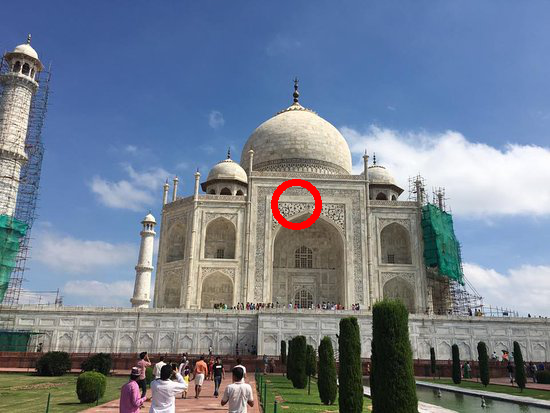
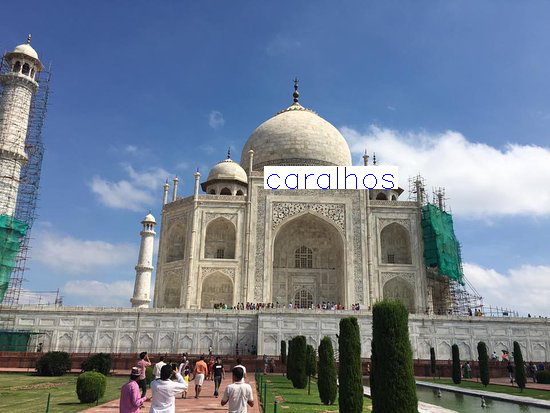
Augmenting text now working

Changed region(s): [[0.4636, 0.3777, 0.7418, 0.5811]]

diff --git a/Preparation.py b/Preparation.py
@@ -90,13 +90,14 @@ def draw_circle(event, x, y, flags, param):
                             cv2.FONT_HERSHEY_SIMPLEX, font_size,
                             255, 1)
 
-                subsets.append(Subset(mode,
+                subsets.append(Subset(Mode.TEXT,
                                TextObj(RectangularObj((x, y),
                                                       (x + ix, y - iy),
                                                       (255, 255, 255),
                                                       -1),
                                        s[:-1], font_size, 255, 1),
-                               crop_image(imgList[0], x, y, x + ix, y - iy)))
+                               crop_image(imgList[0], x - 20, y + 20, x + ix + 20, y - iy - 20)))
+                cv2.imwrite("teste.png", crop_image(img, x - 20, y + 20, x + ix + 20, y - iy - 20))
                 break
         imgList.append(img.copy())
 
@@ -130,7 +131,7 @@ for filename in filenames:
         cv2.imshow('image', img)
         k = cv2.waitKey(1) & 0xFF
         if k == ord('m'):
-            if mode.value < len(Mode):
+            if mode.value < 3:
                 mode = Mode(mode.value + 1)
             else:
                 mode = Mode(1)

diff --git a/Augmentation.py b/Augmentation.py
@@ -104,6 +104,21 @@ for image in images:
             cv2.rectangle(img, (ix, iy), (x, y),
                                (0, 0, 255), subset.obj.thickness)
 
+        elif subset.mode == Mode.TEXT:
+            print(subset.imgcorners)
+            print(subset.imgcorners[0, 0][0])
+            x = int(subset.imgcorners[1, 0][0]) + 20
+            y = int(subset.imgcorners[1, 0][1]) - 20
+            text = cv2.getTextSize(subset.obj.text, cv2.FONT_HERSHEY_SIMPLEX,
+                                   subset.obj.font_size, 1)[0]
+            ix, iy = text
+
+            cv2.rectangle(img, (x, y), (x + ix, y - iy),
+                               (255, 255, 255), -1)
+            cv2.putText(img, subset.obj.text, (x, y),
+                        cv2.FONT_HERSHEY_SIMPLEX, subset.obj.font_size,
+                        255, 1)
+
         elif subset.mode == Mode.CIRCLE:
             print(subset.imgcorners)
             print(subset.imgcorners[0, 0][0])

diff --git a/Classes.py b/Classes.py
@@ -5,6 +5,7 @@ class Mode(Enum):
     ARROW = 1
     RECTANGLE = 2
     CIRCLE = 3
+    TEXT = 4
 
 
 class RectangularObj:
